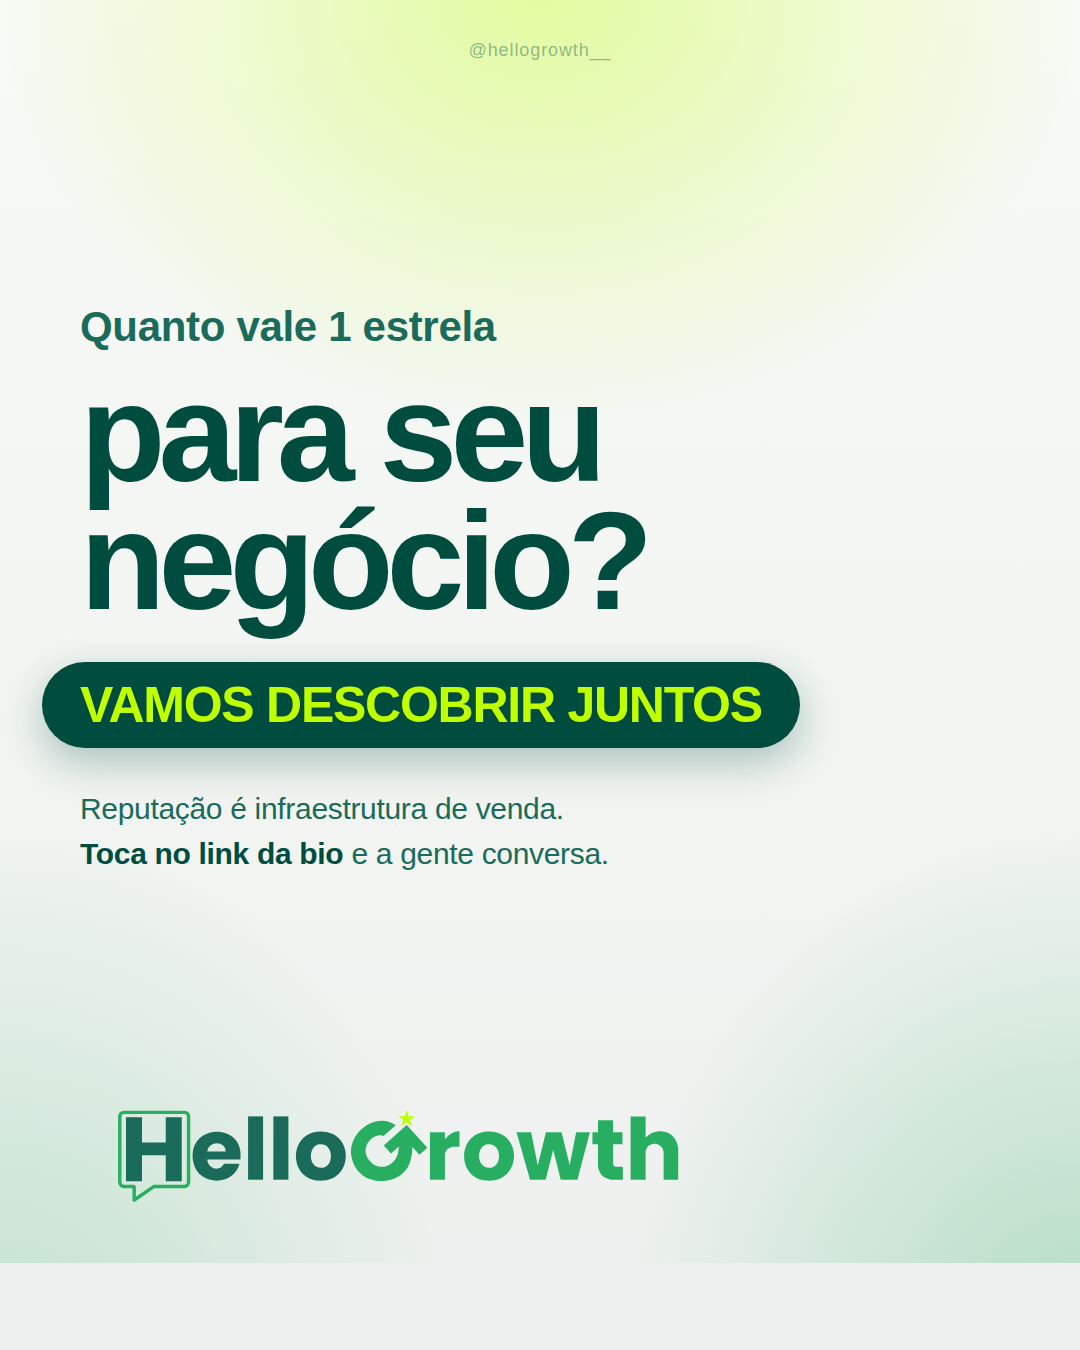
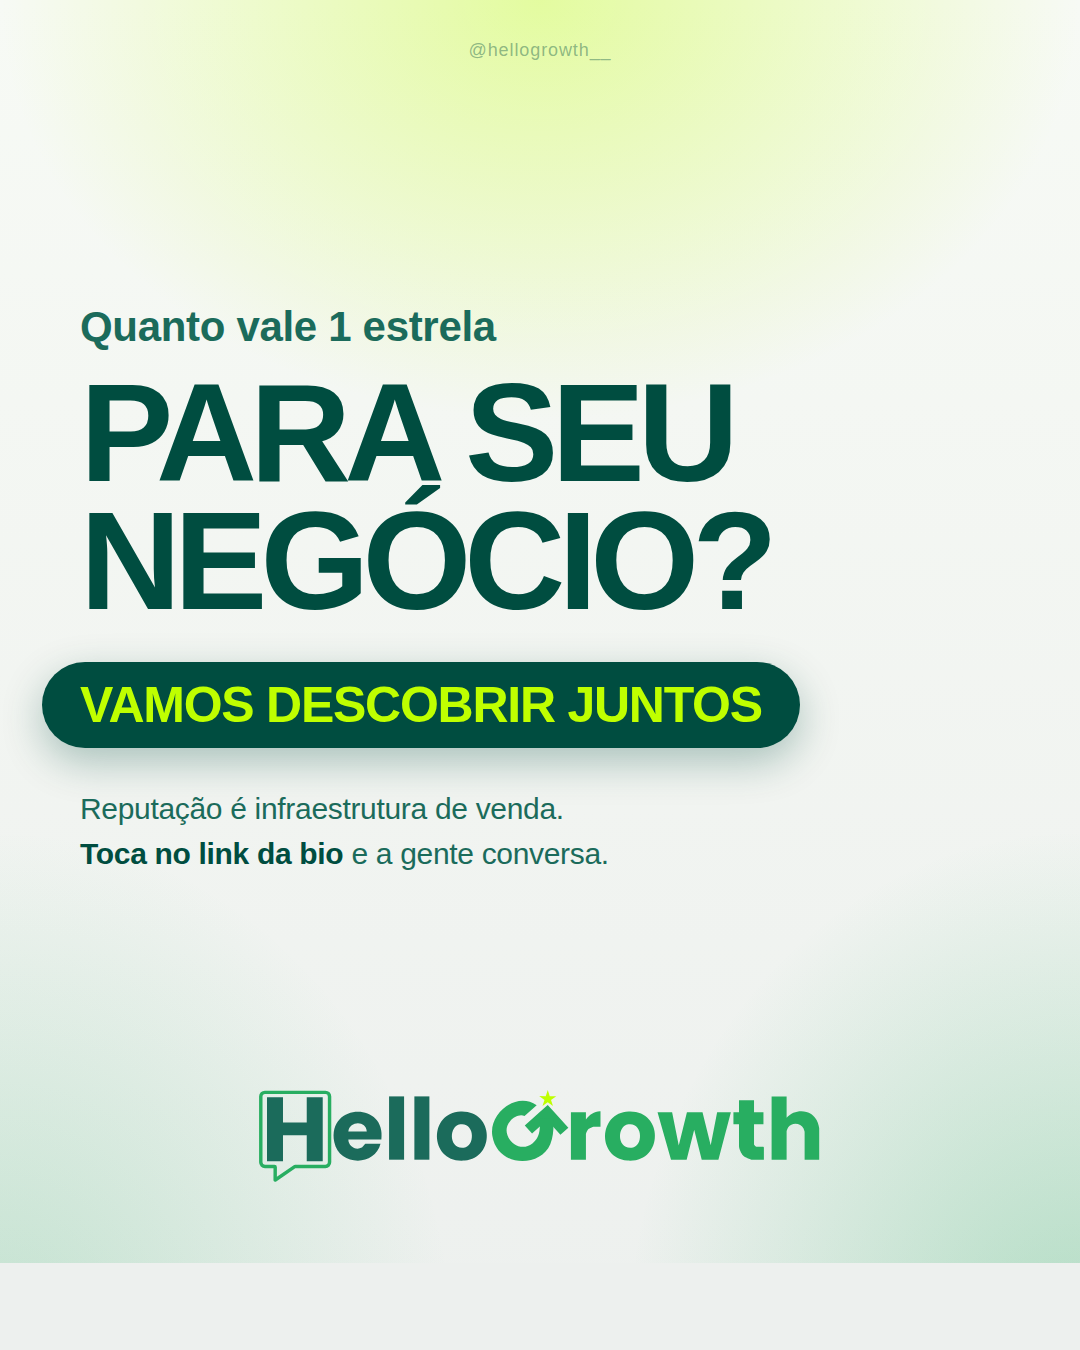
Carousel V8: layout refinements per review
- Card 1: raise body copy to 46px, lift footer to 150px, scale logo to 110px
- Card 2: enlarge inline Harvard pill (shield 52x60, name 40px, deeper padding)
- Card 3: balance arrow margins so calc-box ↔ arrow ↔ result pill are symmetric
- Card 4: drop chat bubble rotation, scale wordmark to 90px, align footer
- Card 7: uppercase headline, center the HelloGrowth signature

https://claude.ai/code/session_01RXRUyw64HWp6pgoosUTsE4

Changed region(s): [[0.0611, 0.28, 0.7333, 0.4978], [0.0917, 0.8089, 0.7639, 0.9022]]

diff --git a/squads/social-content/output/2026-06-03-195535/slides-brand/slide-04.html b/squads/social-content/output/2026-06-03-195535/slides-brand/slide-04.html
@@ -31,17 +31,16 @@ html, body {
 
 .chat-bubble {
   position: absolute;
-  top: 100px; right: 70px;
-  width: 180px;
-  opacity: 0.35;
-  transform: rotate(8deg);
+  top: 120px; right: 90px;
+  width: 160px;
+  opacity: 0.30;
 }
 .chat-bubble svg { width: 100%; height: auto; display: block; }
 
 .pre-headline {
   font-size: 36px; font-weight: 500;
   color: #1b6b5b; line-height: 1.35;
-  margin-top: 280px; margin-bottom: 20px;
+  margin-top: 320px; margin-bottom: 20px;
 }
 .pre-headline .accent {
   background: #bfff00;
@@ -65,7 +64,7 @@ html, body {
 .sub strong { color: #004d40; font-weight: 800; }
 
 .bottom-row {
-  position: absolute; bottom: 130px; left: 80px; right: 80px;
+  position: absolute; bottom: 150px; left: 80px; right: 80px;
   display: flex; align-items: center; justify-content: space-between;
 }
 .logo-wordmark {
@@ -103,7 +102,7 @@ html, body {
   <div class="sub">a mais que quem ignora.<br><strong>Marketing mais barato que existe.</strong></div>
 
   <div class="bottom-row">
-    <img src="assets/logo-wordmark.svg" alt="HelloGrowth" style="height: 60px;">
+    <img src="assets/logo-wordmark.svg" alt="HelloGrowth" style="height: 90px;">
     <div class="arrow-next">
       <svg viewBox="0 0 24 24" fill="none" stroke="#edf0ee" stroke-width="3" stroke-linecap="round" stroke-linejoin="round">
         <line x1="5" y1="12" x2="19" y2="12"/>

diff --git a/squads/social-content/output/2026-06-03-195535/slides-brand/slide-02.html b/squads/social-content/output/2026-06-03-195535/slides-brand/slide-02.html
@@ -41,27 +41,27 @@ html, body {
   color: #edf0ee; line-height: 1.5;
 }
 .intro-line .harvard-inline {
-  display: inline-flex; align-items: center; gap: 12px;
+  display: inline-flex; align-items: center; gap: 16px;
   vertical-align: middle;
-  background: rgba(164,30,34,0.18);
-  border: 2px solid rgba(164,30,34,0.45);
-  border-radius: 60px;
-  padding: 6px 18px 6px 8px;
+  background: rgba(164,30,34,0.22);
+  border: 3px solid rgba(164,30,34,0.55);
+  border-radius: 80px;
+  padding: 10px 30px 10px 14px;
   margin-right: 6px;
 }
 .intro-line .harvard-shield-small {
-  width: 36px; height: 42px;
+  width: 52px; height: 60px;
   background: #A41E22;
   clip-path: polygon(0 0, 100% 0, 100% 72%, 50% 100%, 0 72%);
   display: flex; align-items: flex-start; justify-content: center;
-  padding-top: 4px;
+  padding-top: 6px;
   font-family: 'Playfair Display', serif;
-  font-weight: 900; font-size: 20px;
+  font-weight: 900; font-size: 28px;
   color: #edf0ee;
 }
 .intro-line .harvard-name-inline {
   font-family: 'Playfair Display', serif;
-  font-weight: 700; font-size: 30px;
+  font-weight: 700; font-size: 40px;
   color: #edf0ee; letter-spacing: 0;
 }
 .intro-line .accent { color: #bfff00; font-weight: 700; }

diff --git a/squads/social-content/output/2026-06-03-195535/slides-brand/slide-07.html b/squads/social-content/output/2026-06-03-195535/slides-brand/slide-07.html
@@ -41,6 +41,7 @@ html, body {
   font-size: 140px; font-weight: 900;
   color: #004d40; line-height: 0.92; margin-bottom: 36px;
   letter-spacing: -0.05em;
+  text-transform: uppercase;
 }
 .pilula {
   display: inline-block;
@@ -61,8 +62,8 @@ html, body {
 
 /* Big full signature at bottom */
 .bottom-row {
-  position: absolute; bottom: 130px; left: 80px; right: 80px;
-  display: flex; align-items: center; justify-content: space-between;
+  position: absolute; bottom: 150px; left: 0; right: 0;
+  display: flex; align-items: center; justify-content: center;
 }
 .logo-full {
   display: flex; align-items: center; gap: 22px;

diff --git a/squads/social-content/output/2026-06-03-195535/slides-brand/slide-01.html b/squads/social-content/output/2026-06-03-195535/slides-brand/slide-01.html
@@ -66,7 +66,7 @@ html, body {
 
 /* Texto único: pre e contexto no mesmo tamanho */
 .body-text {
-  font-size: 38px; font-weight: 600;
+  font-size: 46px; font-weight: 600;
   color: #1b6b5b; line-height: 1.3;
   margin-bottom: 18px;
 }
@@ -88,10 +88,10 @@ html, body {
 }
 
 .bottom-row {
-  position: absolute; bottom: 130px; left: 80px; right: 80px;
+  position: absolute; bottom: 150px; left: 80px; right: 80px;
   display: flex; align-items: center; justify-content: space-between;
 }
-.logo-full img { height: 90px; }
+.logo-full img { height: 110px; }
 .arrow-next {
   width: 92px; height: 92px;
   background: #28ae61;

diff --git a/squads/social-content/output/2026-06-03-195535/slides-brand/slide-03.html b/squads/social-content/output/2026-06-03-195535/slides-brand/slide-03.html
@@ -51,7 +51,7 @@ html, body {
   border: 2px solid rgba(40,174,97,0.4);
   border-radius: 24px;
   padding: 38px 42px;
-  margin-bottom: 28px;
+  margin-bottom: 0;
 }
 .calc-row {
   display: flex; justify-content: space-between; align-items: baseline;
@@ -63,7 +63,7 @@ html, body {
 .calc-value { font-size: 40px; font-weight: 900; color: #edf0ee; }
 .equals {
   text-align: center;
-  font-size: 100px; color: #bfff00; margin: 4px 0;
+  font-size: 100px; color: #bfff00; margin: 32px 0;
   font-weight: 900; line-height: 1;
   text-shadow: 0 0 30px rgba(191,255,0,0.4);
 }
